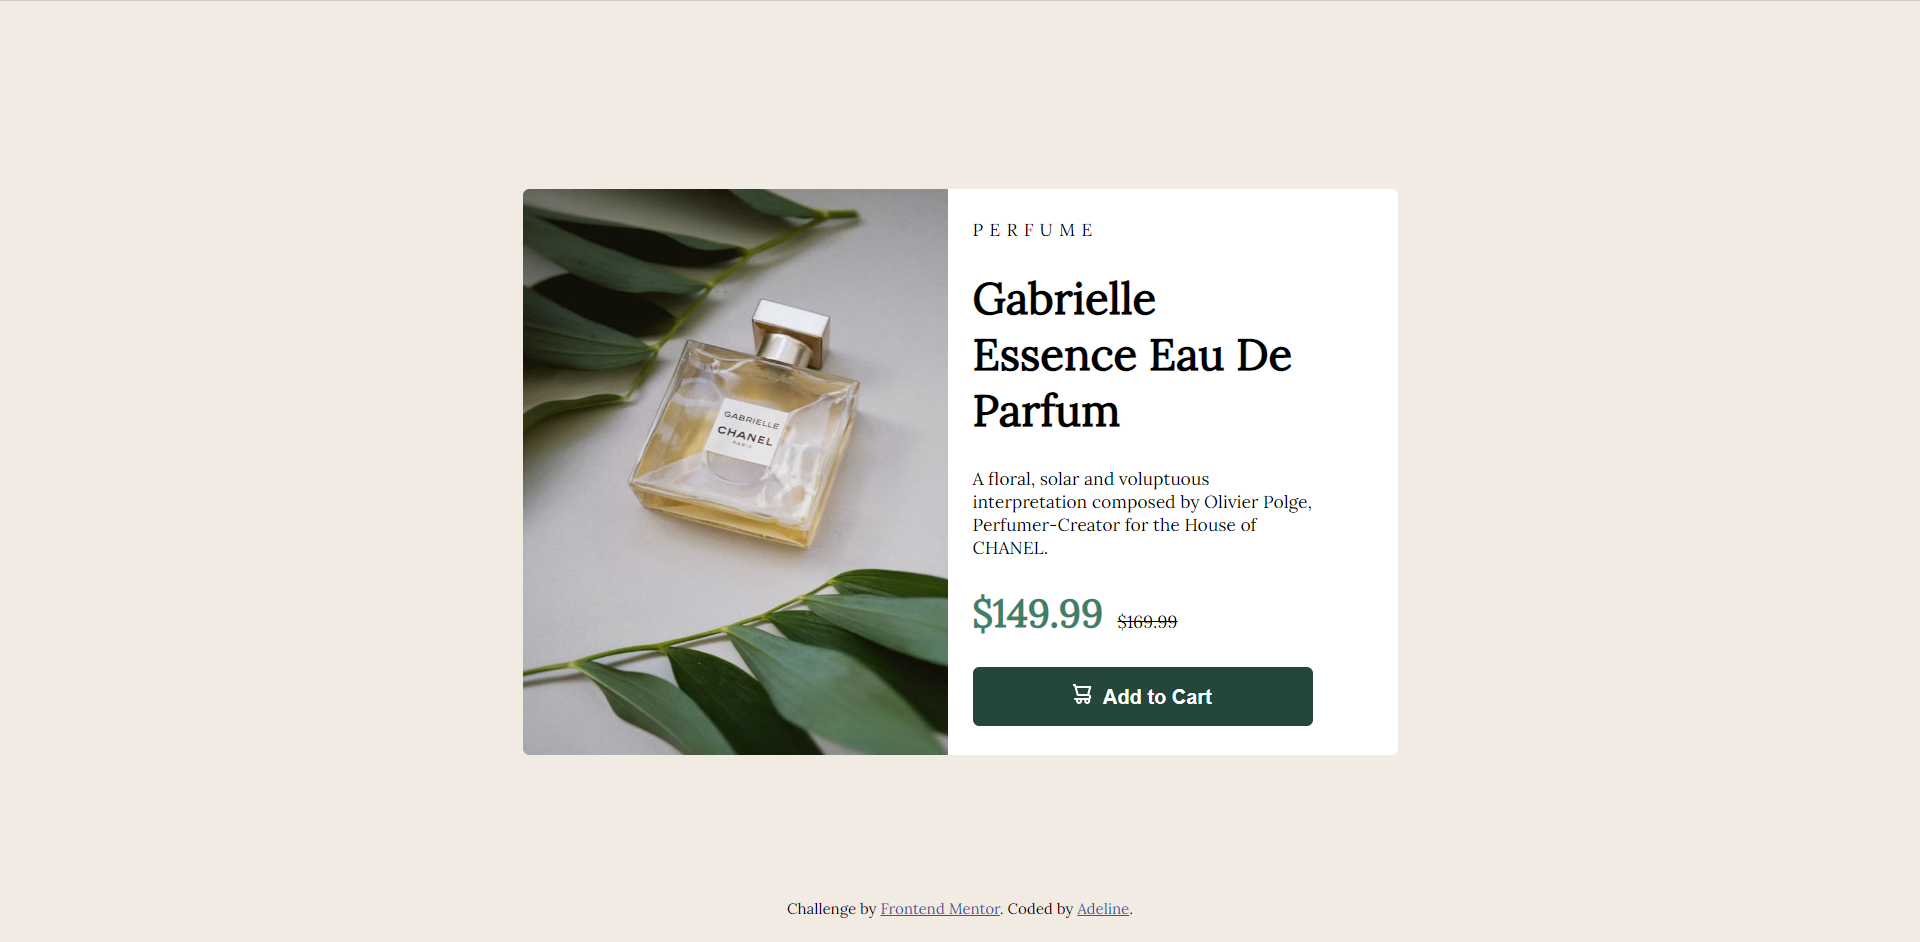
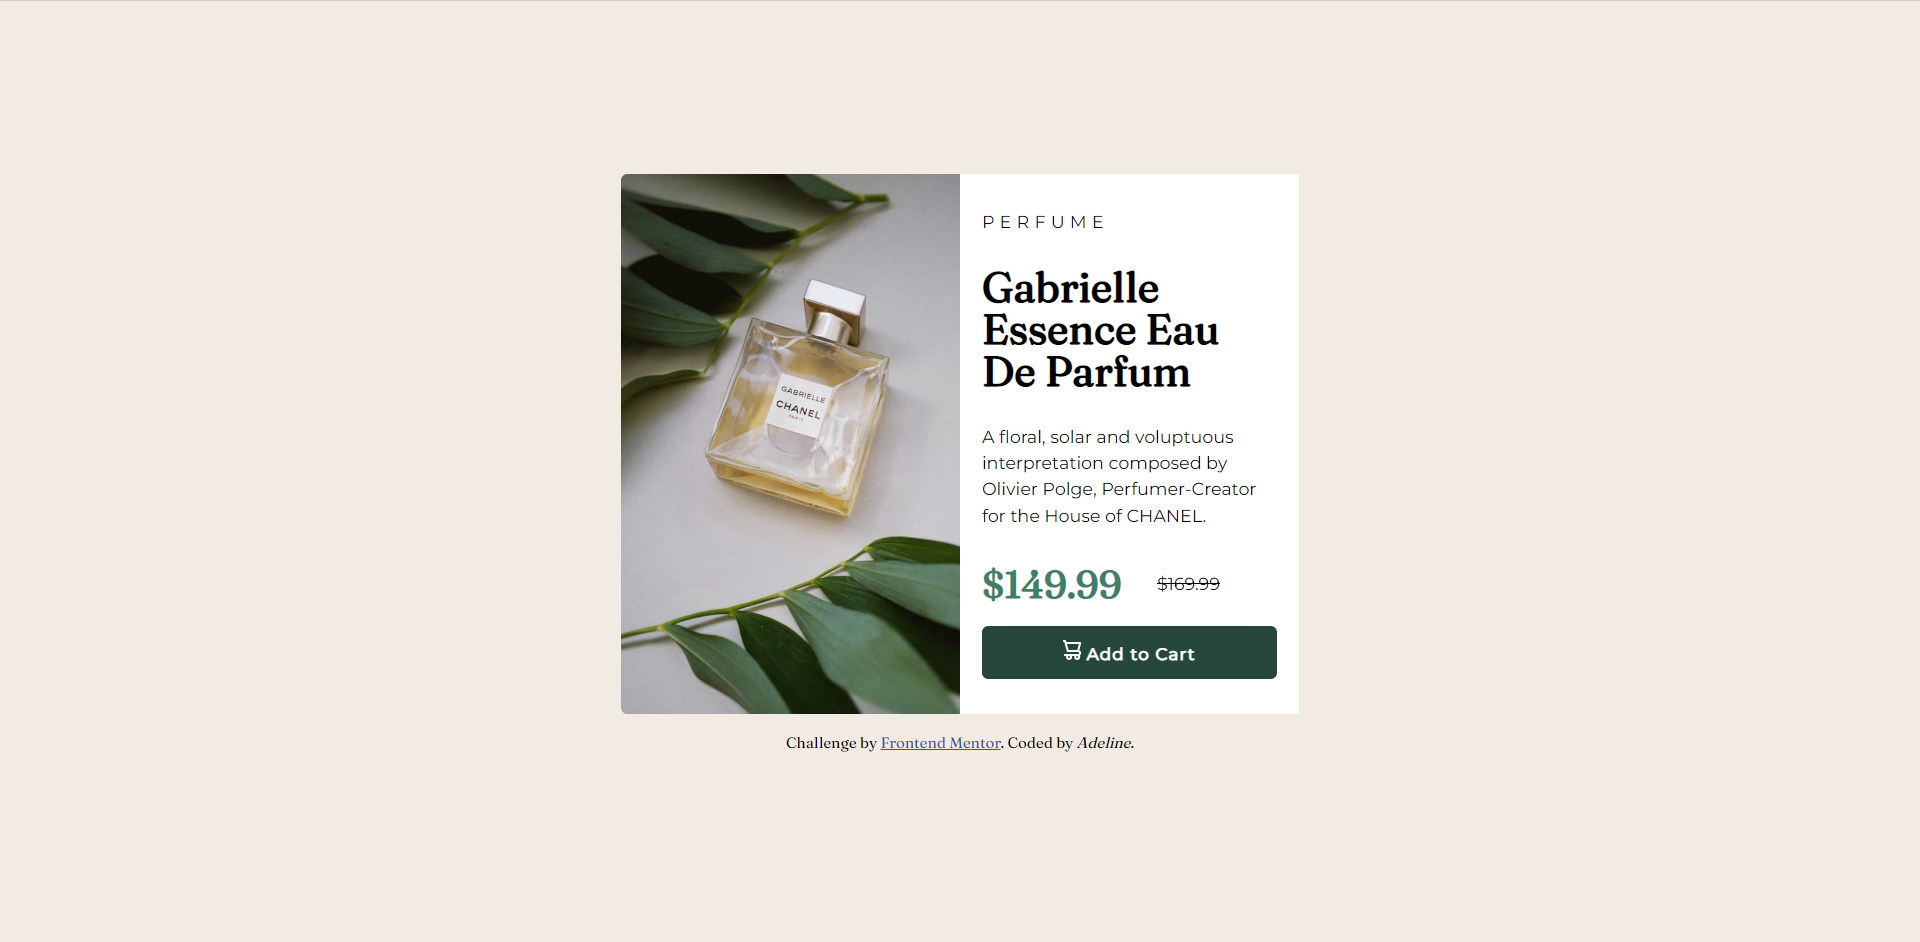
modify
fix problems so that the page  is more similar to the given design

Changed region(s): [[0.25, 0.1847, 0.75, 0.8004], [0.4062, 0.9544, 0.5938, 0.9851]]

diff --git a/styles.css b/styles.css
@@ -1,111 +1,95 @@
-html,
-body {
-  margin: 0;
-}
-body {
-  background-color: hsl(30, 38%, 92%);
+html {
   font-family: "Montserrat", sans-serif;
-  font-family: "Lora", serif;
+  font-family: "Fraunces", serif;
   font-size: 14px;
 }
-.container {
-  position: absolute;
-  left: 0;
-  right: 0;
-  bottom: 0;
-  top: 20vh;
-  margin: 0 auto;
-  background-color: hsl(0, 0%, 100%);
-  width: 700px;
-  height: 60%;
+body {
+  margin: 0;
+  min-height: 100vh;
+  background-color: hsl(30, 38%, 92%);
   display: flex;
-  flex-wrap: wrap;
   justify-content: center;
-  border-radius: 5px;
-  gap: 20px;
+  align-items: center;
+  flex-flow: column;
+}
+main {
+  background-color: hsl(0, 0%, 100%);
+  width: 38.75rem;
+  display: grid;
+  grid-template-columns: 1fr 1fr;
+  border-radius: 5px 0 0 5px;
 }
 img {
-  width: 50%;
+  width: 100%;
   height: 100%;
-  margin: 0;
-  padding: 0;
-  flex: 1;
   border-top-left-radius: 5px;
   border-bottom-left-radius: 5px;
 }
 .text {
-  height: 100%;
   display: flex;
-  flex: 1;
   flex-flow: column;
-  justify-content: space-evenly;
+  gap: 1.8rem;
+  justify-content: center;
+  padding: 2rem 1.25rem;
+}
+.text * {
+  margin: 0;
+}
+
+.text p:first-of-type {
+  letter-spacing: 0.3rem;
+}
+.text h1 {
+  font-size: 2.4rem;
+  font-weight: 700;
+  line-height: 2.4rem;
 }
 @media (max-width: 375px) {
-  .container {
-    width: 80%;
-    min-height: 90%;
-    top: 3vh;
-    flex-direction: column;
-    align-items: center;
-    gap: 10px;
+  main {
+    width: 20rem;
+    grid-template-columns: 1fr;
+  }
+  .text h1 {
+    font-size: 2rem;
   }
   img {
     content: url(images/image-product-mobile.jpg);
-    width: 100%;
-    height: 40%;
-    border-radius: 5px;
-    flex: 0;
-  }
-  .text {
-    align-items: center;
+    border-radius: 5px 5px 0 0;
   }
 }
-.text p:first-of-type {
-  letter-spacing: 5px;
-}
-.text h1 {
-  width: 80%;
-  font-size: 2.5em;
-  font-weight: 700;
-  margin: 0;
+.text p, button span, .money + span {
+  font-family: "Montserrat", sans-serif;
 }
 .text p {
-  width: 80%;
-  margin: 0;
+  line-height: 1.5rem;
 }
 button {
-  width: 80%;
   background-color: hsl(158, 36%, 37%);
   color: hsl(0, 0%, 100%);
   border: none;
   border-radius: 5px;
   cursor: pointer;
-  padding: 1em 0;
+  padding: .8rem 0;
 }
 button span {
-  font-size: 16px;
-  font-weight: bold;
-  margin-left: 5px;
+  font-weight: 700;
+  letter-spacing: .07rem;
 }
 button:hover {
   background-color: hsl(158, 33%, 21%);
 }
 .money {
   color: hsl(158, 36%, 37%);
-  font-size: 2.2em;
+  font-size: 2.2rem;
   font-weight: 700;
+  font-family: "Fraunces", serif;
 }
 .money + span {
+  display: block;
   text-decoration: line-through;
-  margin-left: 0.8em;
-  padding: 0.5em 0;
+  margin: -2rem 0 0 10rem;
 }
 .attribution {
-  position: absolute;
-  bottom: 0;
-  left: 0;
-  right: 0;
-  margin: 0 auto;
   font-size: 11px;
   text-align: center;
   padding: 15px;

diff --git a/index.html b/index.html
@@ -11,17 +11,18 @@
       sizes="32x32"
       href="./images/favicon-32x32.png"
     />
+    <link rel="preconnect" href="https://fonts.googleapis.com" />
+    <link rel="preconnect" href="https://fonts.gstatic.com" crossorigin />
     <link
-      href="https://fonts.googlefonts.cn/css?family=Lora|Montserrat"
+      href="https://fonts.googleapis.com/css2?family=Fraunces:opsz@9..144&family=Montserrat&display=swap"
       rel="stylesheet"
     />
     <link rel="stylesheet" href="styles.css" />
 
     <title>Frontend Mentor | Product preview card component</title>
-
   </head>
   <body>
-    <div class="container">
+    <main>
       <img src="images/image-product-desktop.jpg" alt="product" />
       <div class="text">
         <p>PERFUME</p>
@@ -30,7 +31,7 @@
           A floral, solar and voluptuous interpretation composed by Olivier
           Polge, Perfumer-Creator for the House of CHANEL.
         </p>
-        <p><span class="money">$149.99</span><span>$169.99</span></p>
+        <div><span class="money">$149.99</span><span>$169.99</span></div>
         <button>
           <svg width="15" height="16" xmlns="http://www.w3.org/2000/svg">
             <path
@@ -41,7 +42,7 @@
           <span>Add to Cart</span>
         </button>
       </div>
-    </div>
+    </main>
     <div class="attribution">
       Challenge by
       <a href="https://www.frontendmentor.io?ref=challenge" target="_blank"

diff --git a/README.md b/README.md
@@ -28,8 +28,11 @@ Users should be able to:
 ### What I learned
 
 - Solve problems before coding
+- A easy way to center items horizontally&vertically in <body>: set <min-height: 100vh>, so that the <body> tag will stretch to all viewport, change <display> (flex or grid), then just use <justify-content: center> and <align-items: center>!
 
 
 ## Acknowledgments
 
 Thanks for the full support of my keyboard. I was not supposed to eat ramen before you, let alone spill the sauce.
+
+Thank @Deniel Den and @Lucas 👾 in Frontend Mentor. Both of your suggestions are very helpful.Happy Coding 😺!
